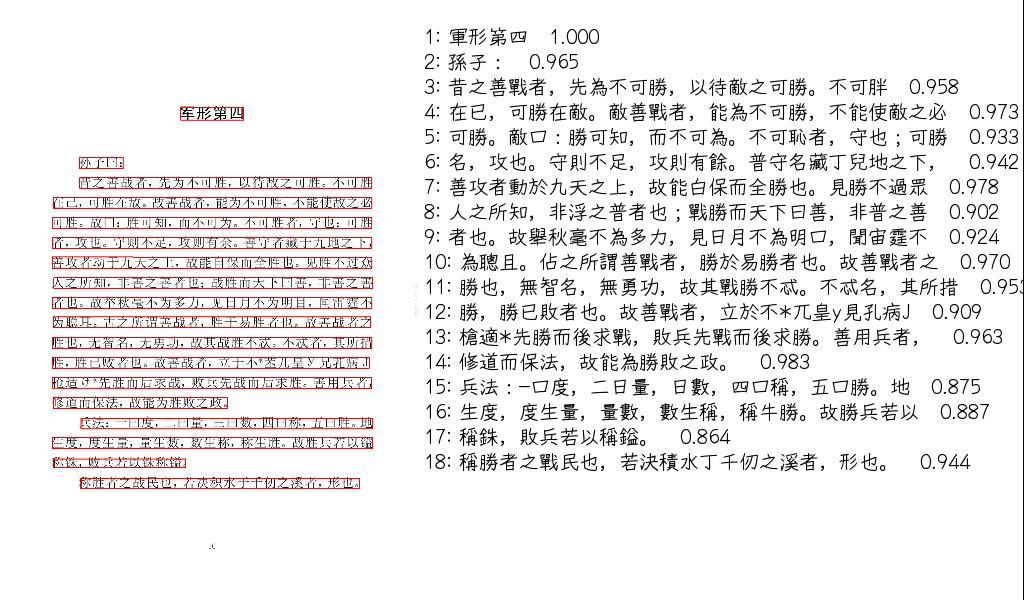
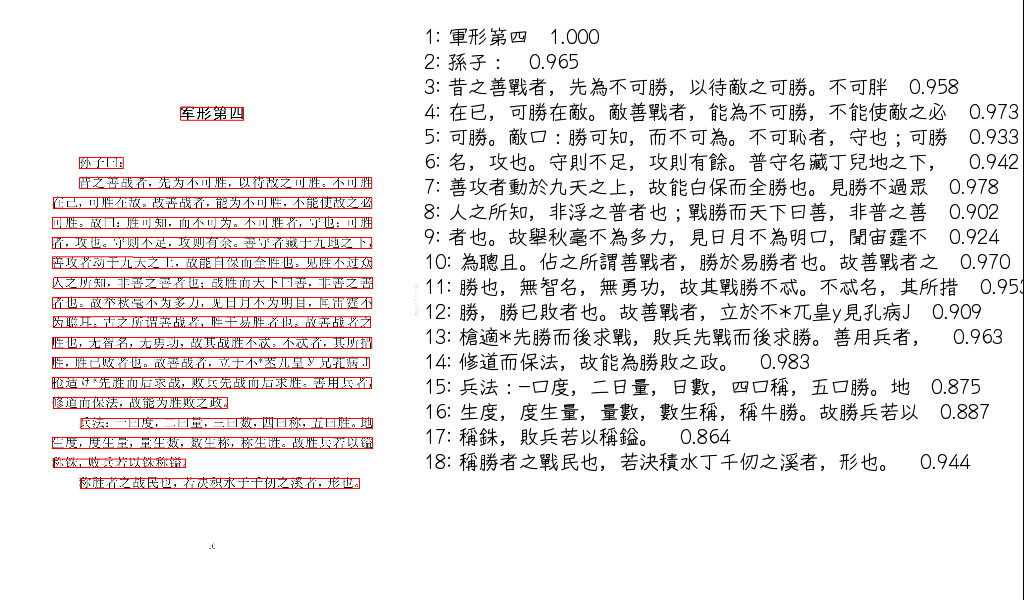
Result Visualization Under Construction

Changed region(s): [[0.0312, 0.24, 0.375, 0.84], [0.1562, 0.15, 0.25, 0.21]]

diff --git a/WebUI/templates/result.html b/WebUI/templates/result.html
@@ -15,8 +15,6 @@
         </div>
     </nav>
 
-    <div class="pt-5"></div>
-
     <div class="container">
         <div class="header">
             <h1 class="text-center pt-3">File Uploaded</h1>
@@ -24,23 +22,21 @@
 
         <hr/>
 
-        <div>
-            <p class="text-center pt-3">Optical Character Recognition Result(s)</p>
+        <div class="pt-3" style="text-align: center">
+            <p>Optical Character Recognition Visualization</p>
 
-            <div style="height: 200px; overflow-y:auto;">
-                <p>
-                    {{ocr_final_result}}
-                </p>
-            </div>
+            <img src="{{url_for('static', filename='result.jpg')}}" alt="Result">
         </div>
-    </div>
-
-    <div class="container">
-        <p class="text-center pt-3">Optical Character Recognition Visualization</p>
 
         <hr/>
 
-        <img src="{{url_for('static', filename='result.jpg')}}" alt="Result">
+        <div>
+            <p class="text-center pt-3">Optical Character Recognition Result(s)</p>
+
+            <textarea readonly rows="7" style="width: 100%; background-color: #edede9; border-radius: 5px">
+                {{ocr_final_result}}
+            </textarea>
+        </div>
     </div>
 
     <div class="text-center pt-3 pb-3">
@@ -49,7 +45,7 @@
         <a href="{{url_for('index')}}" type="button" class="btn btn-danger text-center">New Process</a>
     </div>
 
-    <footer class="bg-secondary text-center text-white pt-3">
+    <footer class="bg-secondary text-center text-white pt-2">
         <div class="text-center p-3">
             © Artificial Intelligence Driven OCR. MIAT LAB, NCU.
         </div>

diff --git a/WebUI/ocr.py b/WebUI/ocr.py
@@ -51,7 +51,7 @@ def image_ocr_match(image_path, counter_number):
     probability = [line[1][1] for line in data]
     im_show = draw_ocr(visual, rec_boxes, rec_texts, probability, font_path='font/Yozai-Regular.ttf')
     im_show = Image.fromarray(im_show)
-    im_show.save('static/result.jpg')
+    im_show.save('static/result.jpg', quality=100, subsampling=0)
 
     process_finish = datetime.datetime.now()  # process finishing time
 
